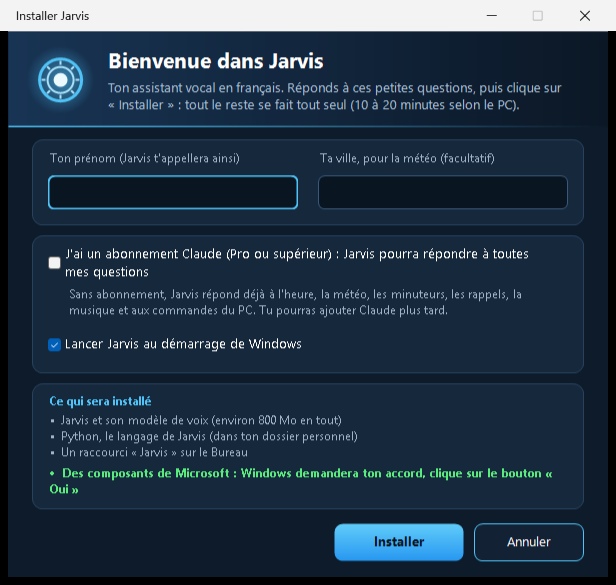
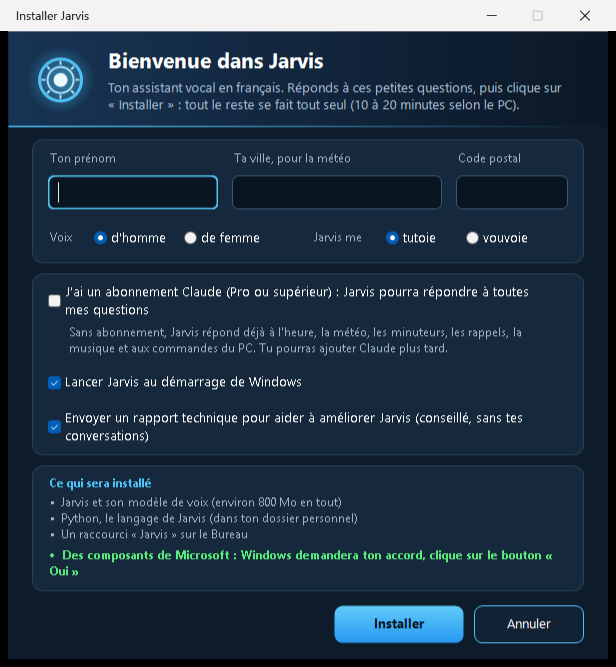
README : capture et etapes de l'installateur 1.65 (code postal, voix, tutoiement, rapport technique)
Claude-Session: https://claude.ai/code/session_011gfDriaTVD4maEfVNnr65M

Changed region(s): [[0.0308, 0.4, 0.987, 1.0], [0.0, 0.0, 1.0, 0.3692], [0.8945, 0.1846, 0.9253, 0.2154]]

diff --git a/README.md b/README.md
@@ -393,7 +393,7 @@ Ne colle jamais dans le Terminal une commande reçue par message, par mail ou tr
 
 ### Dans la fenêtre d'installation
 
-1. **Réponds aux questions** : ton prénom, ta ville, et si tu veux utiliser ton abonnement Claude (l'installateur explique ce qu'il apporte ; tu pourras le relier plus tard). Ensuite, l'installation se fait toute seule (une dizaine de minutes, selon ta connexion et ton PC). Elle met en place :
+1. **Réponds aux questions** : ton prénom, ta ville et son code postal, la voix de Jarvis (homme ou femme), s'il te tutoie ou te vouvoie, et si tu veux utiliser ton abonnement Claude (l'installateur explique ce qu'il apporte ; tu pourras le relier plus tard). La case « rapport technique » est cochée : elle aide à corriger Jarvis, tu peux la décocher. Ensuite, l'installation se fait toute seule (une dizaine de minutes, selon ta connexion et ton PC). Elle met en place :
    - Python 3.14 (depuis python.org), dans ton dossier personnel ;
    - les composants Microsoft Visual C++ : Windows demande ton autorisation, réponds **Oui** (dans la fenêtre de l'installateur, cette consigne est écrite en vert) ;
    - Jarvis, ses modules (y compris ceux de la PlayStation 5), son modèle vocal et celui qui reconnaît qui parle, dans `C:\Jarvis` ;
@@ -511,7 +511,7 @@ Jarvis crée aussi ses propres fichiers au fil de l'usage (mémoire, rappels, no
 - Corrections d'écoute : Jarvis corrige tout seul ses erreurs d'écoute habituelles, et tu peux lui en apprendre : « quand tu entends mes mots, c'est mets-moi », « quelles corrections connais-tu ? », « oublie la correction mes mots ».
 - Diagnostic : « Jarvis, fais un diagnostic » vérifie le micro, le haut-parleur, la reconnaissance vocale, Claude, la connexion et le disque (aussi dans l'onglet Santé des réglages). Après un plantage, il dit au redémarrage ce qui s'est passé.
 - Vidéos des enfants en français seulement (YouTube Kids), réglable dans l'onglet Profils.
-- Premiers pas : après une nouvelle installation, Jarvis fait connaissance pendant les premières conversations, une question à la fois (voix, tutoiement ou vouvoiement, ville, couleurs), puis présente ce qu'il sait faire.
+- Premiers pas : après une nouvelle installation, Jarvis fait connaissance pendant les premières conversations, une question à la fois (couleurs, et la voix, le tutoiement ou la ville s'ils n'ont pas été donnés à l'installation), puis présente ce qu'il sait faire.
 - Mises à jour : au démarrage, Jarvis regarde s'il existe une nouvelle version sur GitHub. S'il en trouve une, il te le dit à ta demande suivante et te demande s'il peut l'installer ; il ne fait rien sans ton « oui ». Tes réglages, ta mémoire, tes rappels et tes listes sont gardés. Aussi à la voix : « Jarvis, cherche les mises à jour », « mets-toi à jour », « quelle est ta version ? ». Seules les mises à jour importantes s'installent sans question, après une minute sans aucune demande (cinq minutes après une demande d'une tablette) : Jarvis le dit à voix haute, puis redémarre.
 - Carburants : « combien coûte le gazole ? », « le prix du sans-plomb 98 » : la station la moins chère près de ta ville (prix officiels). « Mon carburant, c'est le gazole » pour ne plus le préciser.
 - Vacances et jours fériés : « c'est quand les prochaines vacances ? », « c'est quand la rentrée ? », « est-ce que demain est férié ? » (la zone scolaire est retrouvée à partir de ta ville).

diff --git a/README.en.md b/README.en.md
@@ -383,7 +383,7 @@ Never paste into the Terminal a command received by message or email, or found o
 
 ### In the installation window
 
-1. **Answer the questions** (in French): your first name, your town, and whether you want to use your Claude subscription (the installer explains what it adds; you can link it later). Then setup runs by itself (about ten minutes, depending on your connection and PC). It installs:
+1. **Answer the questions** (in French): your first name, your town and its postal code, Jarvis's voice (male or female), informal or formal address, and whether you want to use your Claude subscription (the installer explains what it adds; you can link it later). The "technical report" box is checked: it helps fix Jarvis, and you can uncheck it. Then setup runs by itself (about ten minutes, depending on your connection and PC). It installs:
    - Python 3.14 (from python.org), in your user folder;
    - the Microsoft Visual C++ components: Windows asks for your permission, answer **Yes** (in the installer window this instruction is written in green);
    - Jarvis, its modules (PlayStation 5 included), its speech model and the one that recognises who is speaking, in `C:\Jarvis`;
